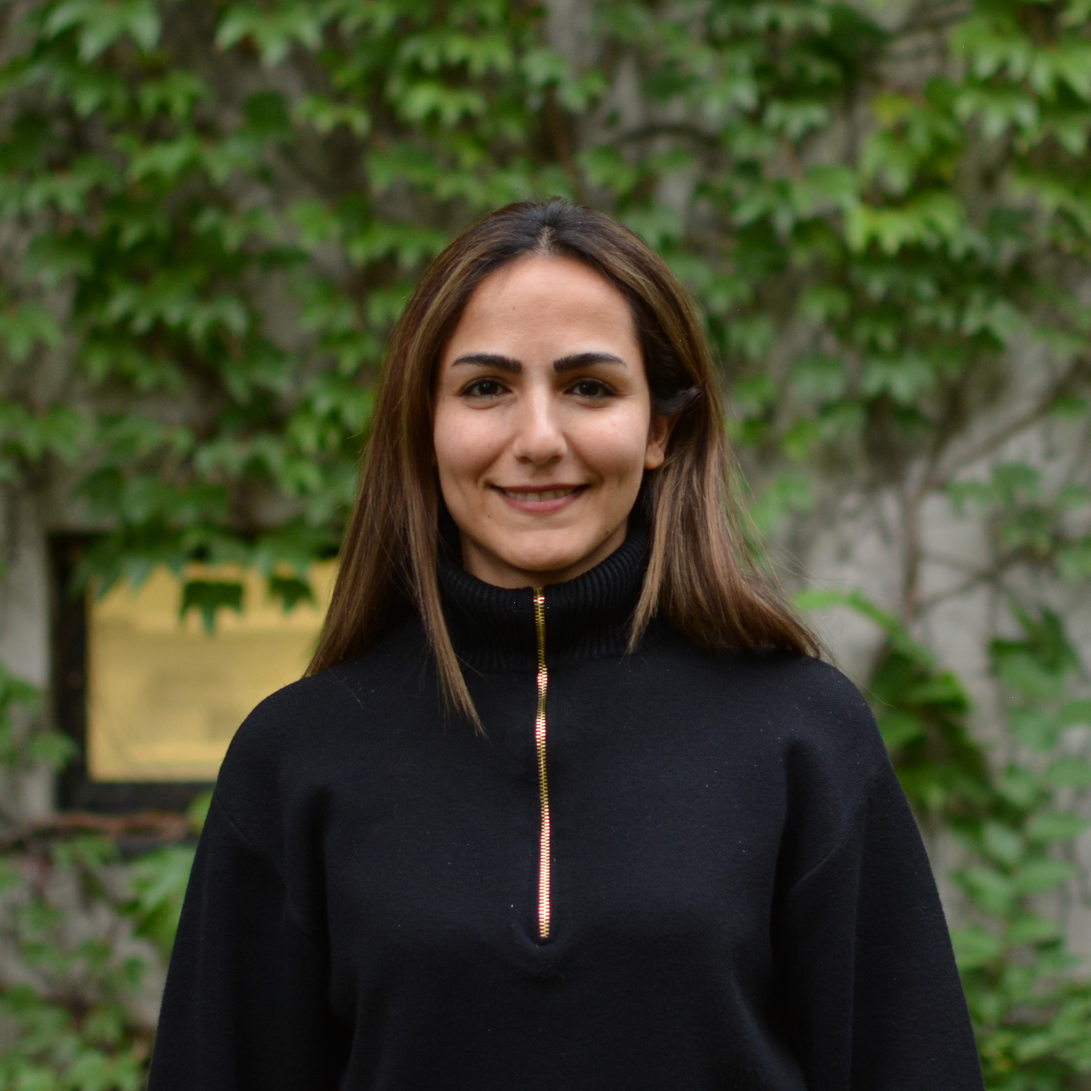
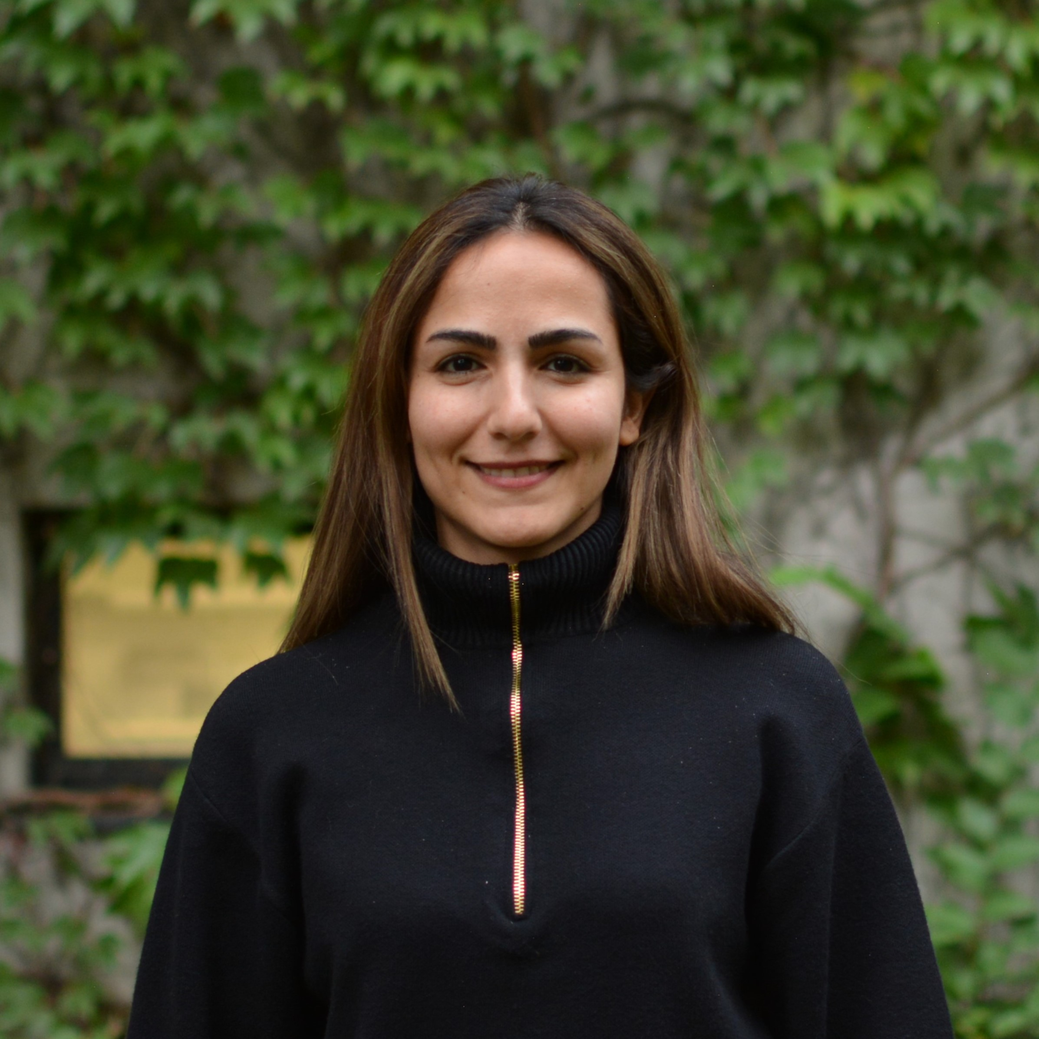
Add new group members and update assets

diff --git a/about-us.html b/about-us.html
@@ -81,7 +81,7 @@
             <!-- <div class="person-card">
               <div class="card-content">
                 <div class="img-div">
-                  <img src="./assets/lab-members/IMAGE-PATH" alt="NAME OF MEMBER">
+                  <img class="lozad" src="./assets/lab-members/IMAGE-PATH" alt="NAME OF MEMBER">
                 </div>
                 <div class="text-content">
                   <h2 class="person-name">NAME OF MEMBER</h2>
@@ -134,6 +134,25 @@
                     in the hopes of contributing to a new generation of bioinspired tech. Apart from reading too much sci-fi,
                     he also enjoys bouncing around Montreal's various dancefloors and torturing dinner guests with poor
                     renditions of folk songs.
+                  </div>
+                </div>
+              </div>
+            </div>
+
+            <div class="person-card">
+              <div class="card-content">
+                <div class="img-div">
+                  <img class="lozad" src="./assets/lab-members/zahra.jpg" alt="Zahra Abdali">
+                </div>
+                <div class="text-content">
+                  <h2 class="person-name">Zahra Abdali</h2>
+                  <h4 class="person-title">Postdoc</h4>
+                  <div class="contact-info">
+                    <p>Pulp &amp; Paper, Room 026</p>
+                    <p><a href="mailto:zahra.abdali@mail.mcgill.ca">zahra.abdali@mail.mcgill.ca</a></p>
+                  </div>
+                  <div class="description">
+                    
                   </div>
                 </div>
               </div>
@@ -362,6 +381,24 @@
             <div class="person-card">
               <div class="card-content">
                 <div class="img-div">
+                  <img class="lozad" src="./assets/lab-members/austin.jpg" alt="Austin Richard">
+                </div>
+                <div class="text-content">
+                  <h2 class="person-name">Austin Richard</h2>
+                  <h4 class="person-title">Ph.D. student</h4>
+                  <div class="contact-info">
+                    <p>Pulp &amp; Paper, Room 026</p>
+                    <p><a href="mailto:austin.richard@mail.mcgill.ca">austin.richard@mail.mcgill.ca</a></p>
+                  </div>
+                  <div class="description">
+                    
+                  </div>
+                </div>
+              </div>
+            </div>
+            <div class="person-card">
+              <div class="card-content">
+                <div class="img-div">
                   <img class="lozad" data-src="./assets/lab-members/omar.jpg" alt="Omar Jimenez Castaneda">
                 </div>
                 <div class="text-content">
@@ -370,6 +407,42 @@
                   <div class="contact-info">
                     <p>Pulp &amp; Paper, Room 010</p>
                     <p><a href="mailto:omar.jimenezcastaneda@mail.mcgill.ca">omar.jimenezcastaneda@mail.mcgill.ca</a></p>
+                  </div>
+                  <div class="description">
+                    
+                  </div>
+                </div>
+              </div>
+            </div>
+            <div class="person-card">
+              <div class="card-content">
+                <div class="img-div">
+                  <img class="lozad" src="./assets/lab-members/bashar.jpg" alt="Bashar Al Hakeem">
+                </div>
+                <div class="text-content">
+                  <h2 class="person-name">Bashar Al Hakeem</h2>
+                  <h4 class="person-title">Masters student</h4>
+                  <div class="contact-info">
+                    <p>Pulp &amp; Paper, Room 021</p>
+                    <p><a href="mailto:bashar.alhakeem@mail.mcgill.ca">bashar.alhakeem@mail.mcgill.ca</a></p>
+                  </div>
+                  <div class="description">
+                    
+                  </div>
+                </div>
+              </div>
+            </div>
+            <div class="person-card">
+              <div class="card-content">
+                <div class="img-div">
+                  <img class="lozad" src="./assets/lab-members/kadence.jpg" alt="Kadence Chow">
+                </div>
+                <div class="text-content">
+                  <h2 class="person-name">Kadence Chow</h2>
+                  <h4 class="person-title">Undergraduate student</h4>
+                  <div class="contact-info">
+                    <p>Pulp &amp; Paper, Room 026</p>
+                    <p><a href="mailto:kadence.chow@mail.mcgill.ca">kadence.chow@mail.mcgill.ca</a></p>
                   </div>
                   <div class="description">
                     
